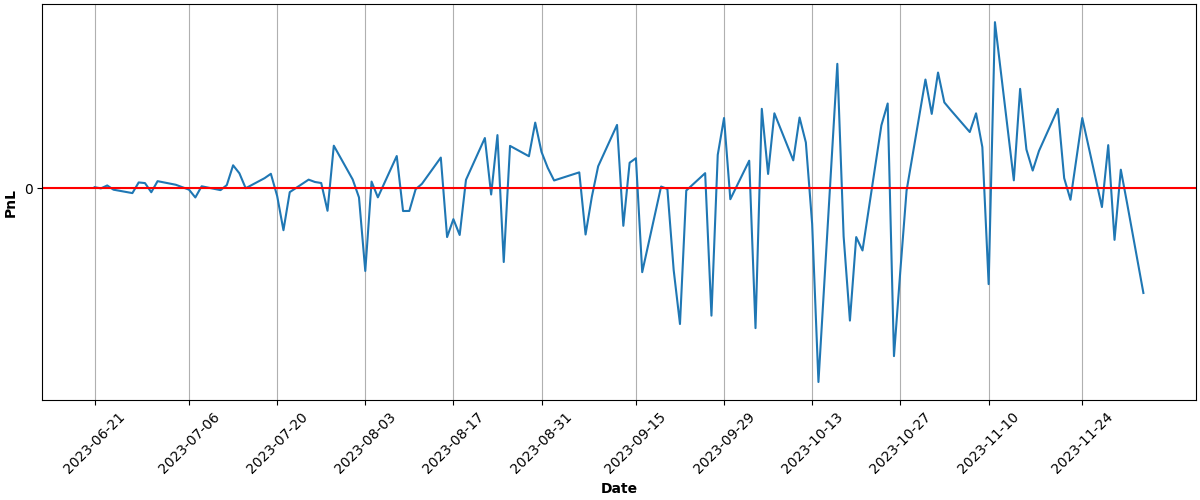
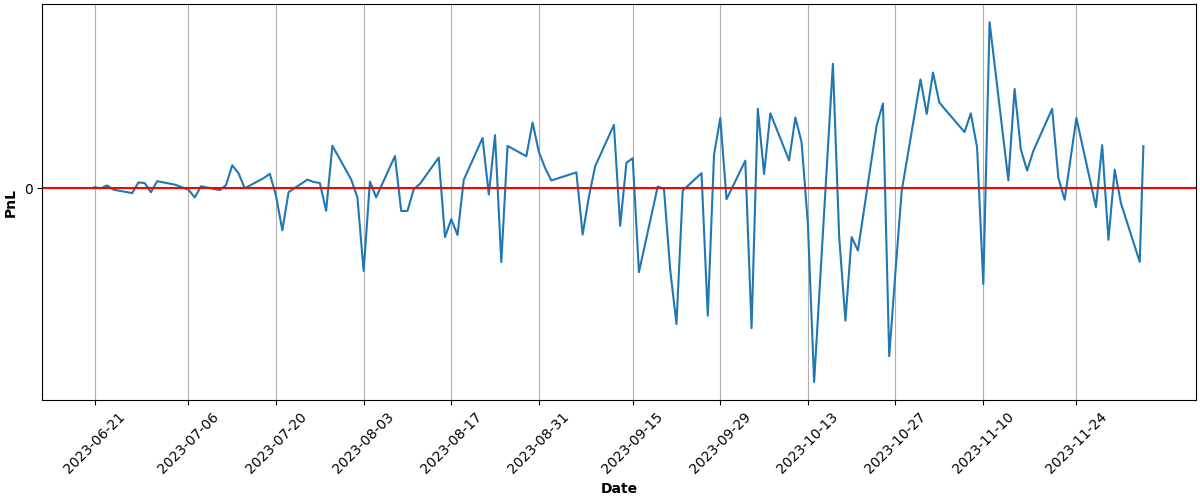
Automated Buy At Tue Dec  5 15:04:21 UTC 2023 Run ID 7102606791

diff --git a/README.md b/README.md
@@ -68,9 +68,9 @@ Results
 
 | Asset | Average Price | Current Price | ROI | 📈 |
 | --- | --- | --- | --- | --- |
-| FNGU | $174.302010755 | $190.8748 | 9.51% | &#128994;&#128515; |
-| SVIX | $28.642945833 | $33.78 | 17.93% | &#128994;&#128515; |
-| **Total** |  |  | **14.01%** | &#128994;&#128518; |
+| FNGU | $174.453310713 | $194.6327 | 11.57% | &#128994;&#128515; |
+| SVIX | $28.76370204 | $34.53 | 20.05% | &#128994;&#128515; |
+| **Total** |  |  | **16.13%** | &#128994;&#128518; |
 
 ### PnL over time (calculations may not be accurate):
 
@@ -81,6 +81,6 @@ Results
 ---
 
 
-Updated at 2023-12-04 15:05:04
+Updated at 2023-12-05 15:04:36
 
 
